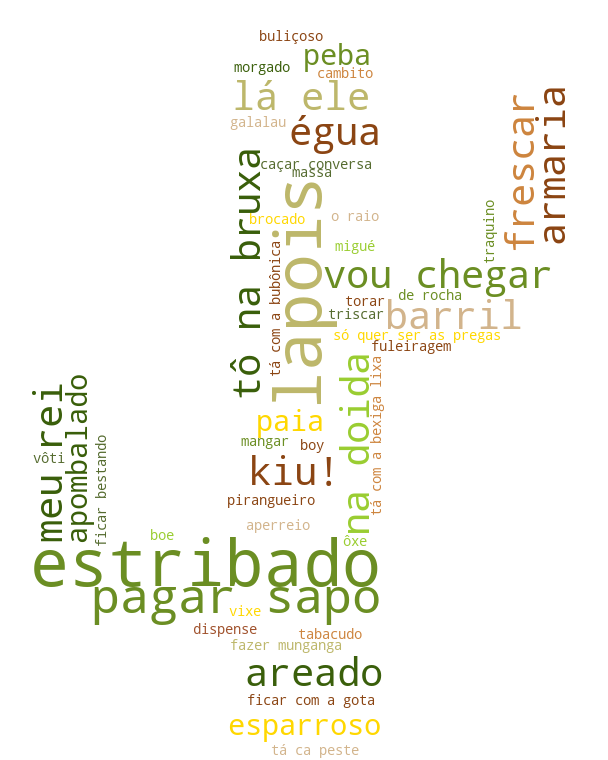
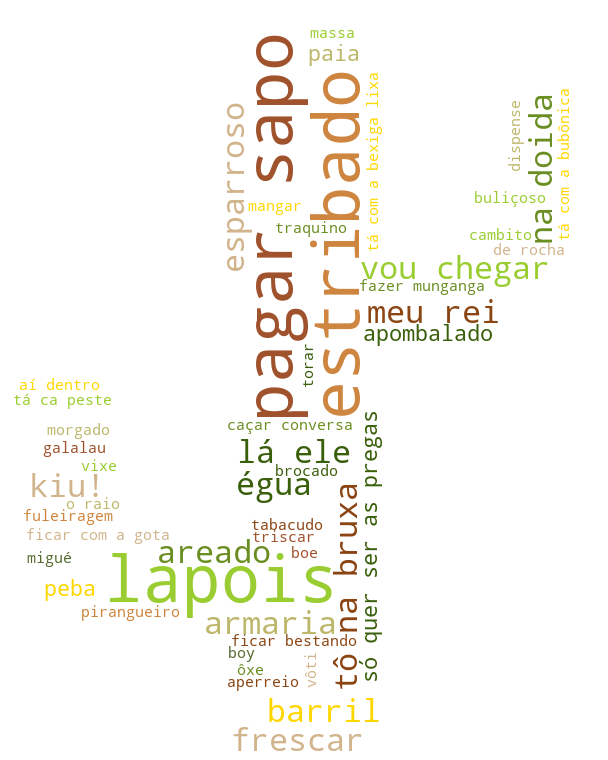
Add files via upload

Changed region(s): [[0.0312, 0.0303, 0.9375, 0.9987]]

diff --git a/cacto.py b/cacto.py
@@ -4,24 +4,25 @@ from wordcloud import WordCloud
 import matplotlib.pyplot as plt
 import random
 
-# Carrega a máscara (certifique-se de que "cacto2.png" existe e tenha resolução adequada)
+# Carrega a máscara (certifique-se de que "cacto2.png" está em alta resolução)
 mask = np.array(Image.open("cacto2.png"))
 
-# Lista de expressões (com espaços, sem underscores)
+# Lista de expressões
 palavras = [
-    "estribado", "lapois", "pagar sapo", "vou chegar", "barril", "lá ele", "tô na bruxa", 
-    "meu rei", "areado", "frescar", "na doida", "armaria", "égua", "kiu!", "esparroso", 
-    "apombalado", "peba", "paia", "só quer ser as pregas", "ficar com a gota", "tabacudo", 
-    "pirangueiro", "aperreio", "dispense", "caçar conversa", "ficar bestando", "galalau", 
-    "fazer munganga", "buliçoso", "boy", "boe", "de rocha", "tá ca peste", "vôti", 
-    "cambito", "fuleiragem", "morgado", "mangar", "migué", "ôxe", "tá com a bexiga lixa", 
-    "tá com a bubônica", "torar", "traquino", "vixe", "massa", "brocado", "o raio", "triscar"
+    "ôxe", "caçar conversa", "paia", "lapois", "aí dentro", "migué", "égua",
+    "estribado","lá ele", "aperreio", "fuleiragem", "vixe", "pagar sapo", "tá ca peste", "ficar bestando",  
+    "meu rei", "arreado", "frescar", "na doida", "armaria", "kiu!", "esparroso", 
+    "apombalado", "peba", "só quer ser as pregas", "tá com a gota serena", "tabacudo", 
+    "pirangueiro", "dispense", "galalau", "vou chegar", "barril", "tô na bruxa",
+    "fazer munganga", "buliçoso", "boy", "boe", "de rocha",  "vôti", 
+    "cambito", "morgado", "mangar", "tá com a bexiga lixa", "avexado"
+    "tá com a bubônica", "torar", "traquino", "massa", "brocado", "o raio", "triscar",
 ]
 
-# Cria um dicionário de frequências (todas com a mesma frequência para este exemplo)
-frequencias = {expressao: 100 for expressao in palavras}
+# Dicionário de frequências
+frequencias = {expressao: 120 for expressao in palavras}
 
-# Paleta de cores (tons de verde, marrom e amarelo)
+# Paleta de cores
 cores = [
     "#3A5F0B", "#6B8E23", "#A0522D", "#8B4513", "#D2B48C",
     "#9ACD32", "#556B2F", "#BDB76B", "#CD853F", "#FFD700"
@@ -34,25 +35,25 @@ def cor_aleatoria(palavra, font_size, position, orientation, random_state, **kwa
         cores_palavras[palavra] = random.choice(cores)
     return cores_palavras[palavra]
 
-# Gera a nuvem de palavras com resolução 4K (3840x2160 pixels)
+# Gera a nuvem de palavras com qualidade máxima (600 DPI - 7020 × 9900 pixels)
 wordcloud = WordCloud(
     background_color="white",
-    max_words=1000,
+    max_words=2000,
     mask=mask,
-    contour_width=0,
+    contour_width=2,
     collocations=False,
     font_path=None,
     color_func=cor_aleatoria,
-    width=3840,   # Largura em pixels para 4K
-    height=2160,  # Altura em pixels para 4K
-    scale=1       # Ajuste se necessário
+    width=7020,  # 600 DPI largura para folha A3
+    height=9900,  # 600 DPI altura para folha A3
+    scale=2  # Multiplica a densidade para garantir mais nitidez
 ).generate_from_frequencies(frequencias)
 
-# Salva a imagem gerada em 4K
-wordcloud.to_file("wordcloud_4k.png")
+# Salva a imagem em alta resolução para impressão
+wordcloud.to_file("wordcloud_A3_600dpi.png")
 
 # Exibe a imagem (opcional)
-plt.figure(figsize=(19.2, 10.8))  # Tamanho em polegadas para aproximar 4K em dpi=200 (ajuste se necessário)
+plt.figure(figsize=(19.2, 27.5))  # Mantém a proporção A3
 plt.imshow(wordcloud, interpolation="bilinear")
 plt.axis("off")
 plt.show()
